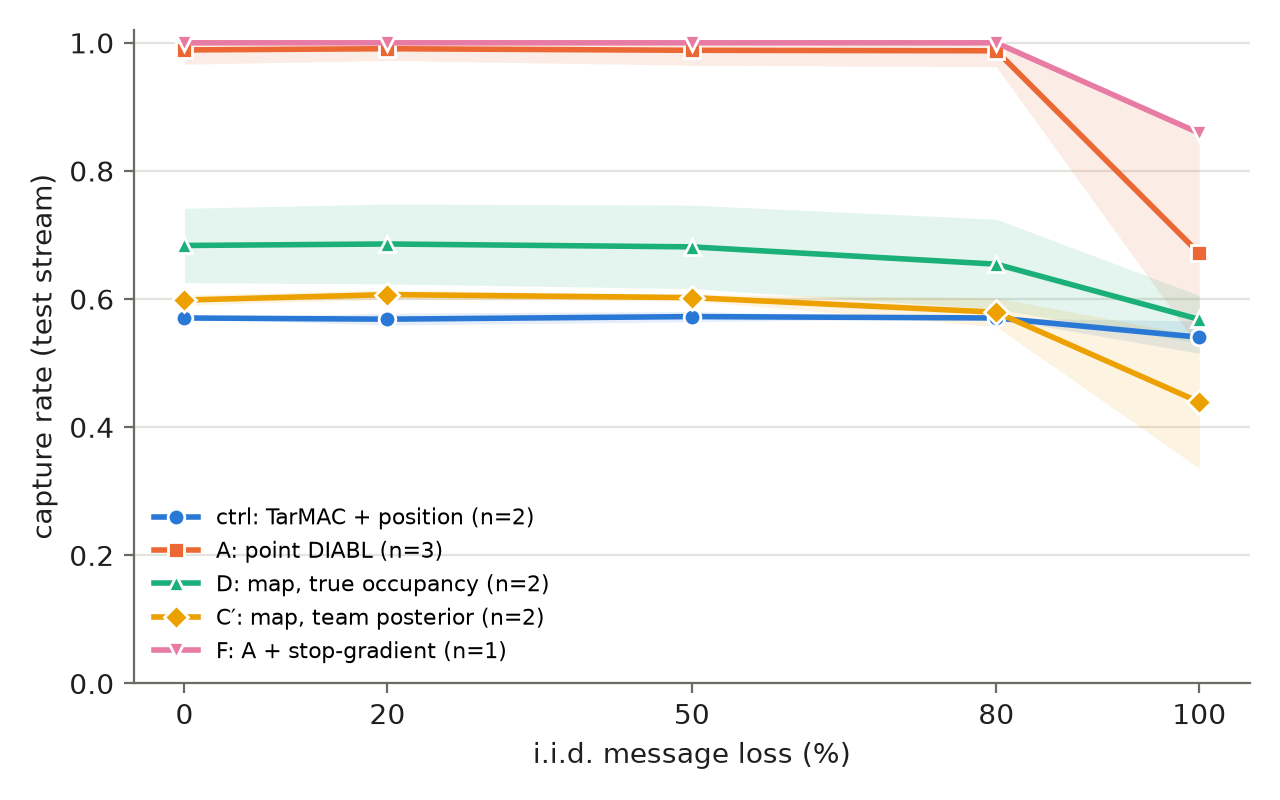
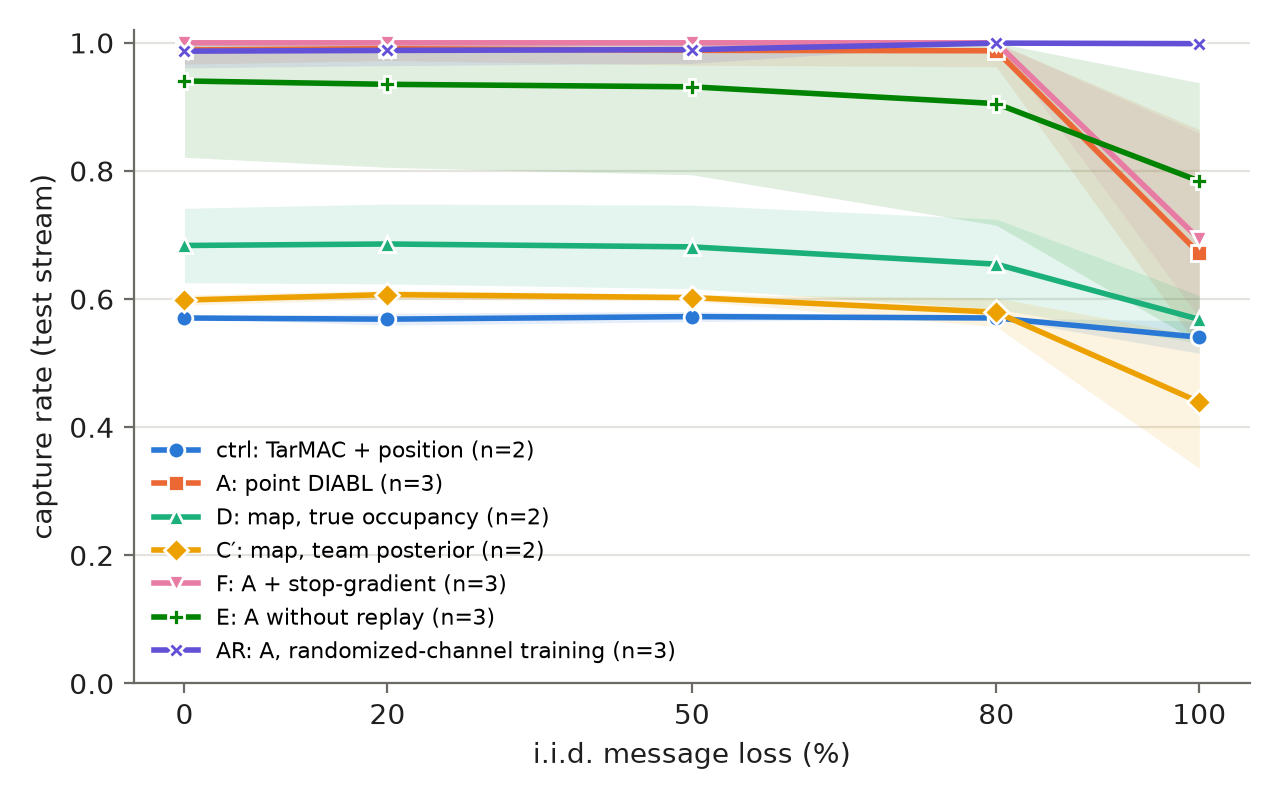
Final results with follow-up arms: F (3 seeds), E (no replay), AR (randomized-channel training)

Changed region(s): [[0.125, 0.0312, 0.9375, 0.4375], [0.125, 0.5312, 0.5312, 0.8438]]

diff --git a/docs/results/final/tables.tex b/docs/results/final/tables.tex
@@ -7,7 +7,9 @@ ctrl: TarMAC + position & 0.571 & 0.569 & 0.573 & 0.571 & 0.540 \\
 A: point DIABL & 0.989 & 0.991 & 0.988 & 0.988 & 0.671 \\
 D: map, true occupancy & 0.684 & 0.686 & 0.681 & 0.654 & 0.568 \\
 C$'$: map, team posterior & 0.599 & 0.607 & 0.602 & 0.579 & 0.439 \\
-F: A + stop-gradient & 1.000 & 1.000 & 1.000 & 1.000 & 0.859 \\
+F: A + stop-gradient & 1.000 & 1.000 & 1.000 & 1.000 & 0.694 \\
+E: A without replay & 0.940 & 0.935 & 0.931 & 0.905 & 0.784 \\
+AR: A, randomized-channel training & 0.987 & 0.988 & 0.989 & 1.000 & 0.999 \\
 \bottomrule
 \end{tabular}
 
@@ -20,8 +22,12 @@ C1a & 0, 1 & 0.041 & [0.039, 0.043] & not detected \\
 C1b & 0, 1 & -0.079 & [-0.091, -0.067] & not detected \\
 FD & -- & – & – & not run \\
 FD-2 (secondary) & -- & – & – & not run \\
-M1 & 1 & 0.000 & [0.000, 0.000] & incomplete \\
+M1 & 0, 1, 2 & -0.011 & [-0.014, -0.009] & not detected \\
 C2a & 0, 1, 2 & – & – & not comparable \\
 C2b (secondary) & 0, 1, 2 & 0.181 & [0.171, 0.191] & confirmed \\
+M2 & 0, 1, 2 & 0.048 & [0.043, 0.054] & not detected \\
+AR1 & 0, 1, 2 & 0.192 & [0.182, 0.202] & confirmed \\
+AR2 & 0, 1, 2 & 0.069 & [0.059, 0.079] & confirmed \\
+AR3 & 0, 1, 2 & -0.002 & [-0.007, 0.003] & not detected \\
 \bottomrule
 \end{tabular}

diff --git a/docs/results/final/tables.md b/docs/results/final/tables.md
@@ -8,7 +8,9 @@ Capture rate on the test stream: mean over training seeds ± half the seed range
 | A: point DIABL | 0.989 ± 0.017 (n=3) | 0.991 ± 0.014 (n=3) | 0.988 ± 0.017 (n=3) | 0.988 ± 0.019 (n=3) | 0.671 ± 0.170 (n=3) |
 | D: map, true occupancy | 0.684 ± 0.058 (n=2) | 0.686 ± 0.062 (n=2) | 0.681 ± 0.065 (n=2) | 0.654 ± 0.070 (n=2) | 0.568 ± 0.037 (n=2) |
 | C′: map, team posterior | 0.599 ± 0.008 (n=2) | 0.607 ± 0.007 (n=2) | 0.602 ± 0.005 (n=2) | 0.579 ± 0.022 (n=2) | 0.439 ± 0.103 (n=2) |
-| F: A + stop-gradient | 1.000 (n=1) | 1.000 (n=1) | 1.000 (n=1) | 1.000 (n=1) | 0.859 (n=1) |
+| F: A + stop-gradient | 1.000 ± 0.000 (n=3) | 1.000 ± 0.000 (n=3) | 1.000 ± 0.000 (n=3) | 1.000 ± 0.000 (n=3) | 0.694 ± 0.144 (n=3) |
+| E: A without replay | 0.940 ± 0.089 (n=3) | 0.935 ± 0.097 (n=3) | 0.931 ± 0.103 (n=3) | 0.905 ± 0.142 (n=3) | 0.784 ± 0.203 (n=3) |
+| AR: A, randomized-channel training | 0.987 ± 0.019 (n=3) | 0.988 ± 0.018 (n=3) | 0.989 ± 0.016 (n=3) | 1.000 ± 0.001 (n=3) | 0.999 ± 0.002 (n=3) |
 
 ## Hypotheses
 
@@ -19,6 +21,10 @@ Capture rate on the test stream: mean over training seeds ± half the seed range
 | C1b | d_diabl_posterior@iid-p0.2 vs d_diabl_coef10@iid-p0.2 | [0, 1] | -0.079 | [-0.091, -0.067] | not detected |
 | FD | fd_heatmap@iid-p0 vs point_diabl@iid-p0 | [] | – | – | not run |
 | FD-2 (secondary) | fd_heatmap@ge-p0.8-b5 vs point_diabl@ge-p0.8-b5 | [] | – | – | not run |
-| M1 | point_diabl@iid-p0 vs point_diabl_stopgrad@iid-p0 | [1] | 0.000 | [0.000, 0.000] | incomplete |
+| M1 | point_diabl@iid-p0 vs point_diabl_stopgrad@iid-p0 | [0, 1, 2] | -0.011 | [-0.014, -0.009] | not detected |
 | C2a | point_diabl@iid-p0-trigger-t3.5 vs point_diabl@iid-p0-random-r0.1 | [0, 1, 2] | – | – | not comparable |
 | C2b (secondary) | point_diabl@iid-p0.8 vs point_diabl@ge-p0.8-b20 | [0, 1, 2] | 0.181 | [0.171, 0.191] | confirmed |
+| M2 | point_diabl@iid-p0 vs point_diabl_noreplay@iid-p0 | [0, 1, 2] | 0.048 | [0.043, 0.054] | not detected |
+| AR1 | point_diabl_robust@ge-p0.8-b20 vs point_diabl@ge-p0.8-b20 | [0, 1, 2] | 0.192 | [0.182, 0.202] | confirmed |
+| AR2 | point_diabl_robust@iid-p0-random-r0.1 vs point_diabl@iid-p0-random-r0.1 | [0, 1, 2] | 0.069 | [0.059, 0.079] | confirmed |
+| AR3 | point_diabl_robust@iid-p0 vs point_diabl@iid-p0 | [0, 1, 2] | -0.002 | [-0.007, 0.003] | not detected |
